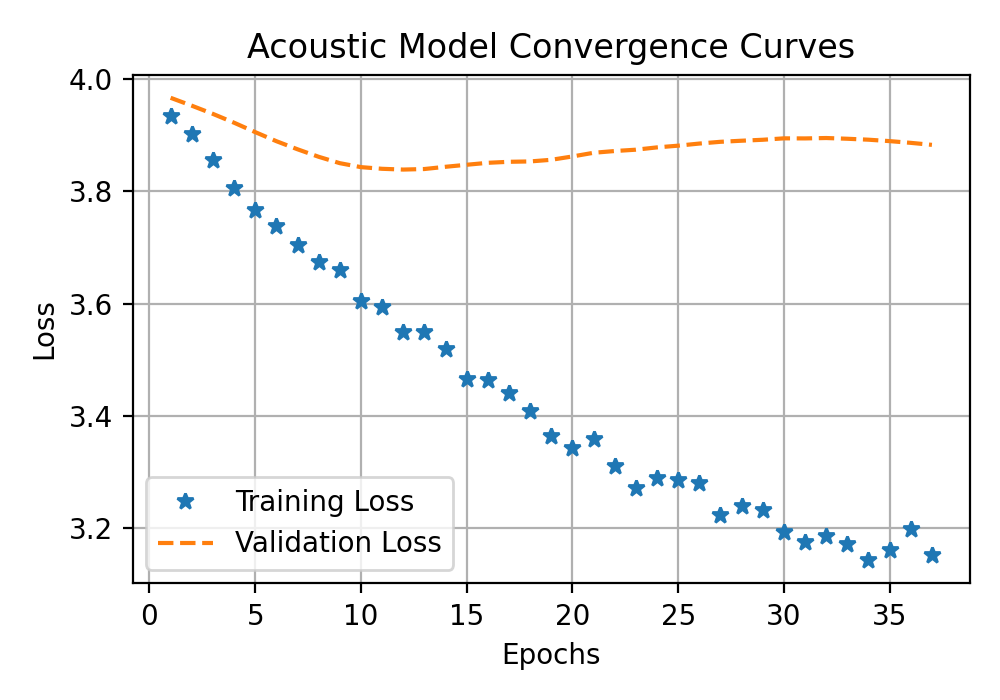
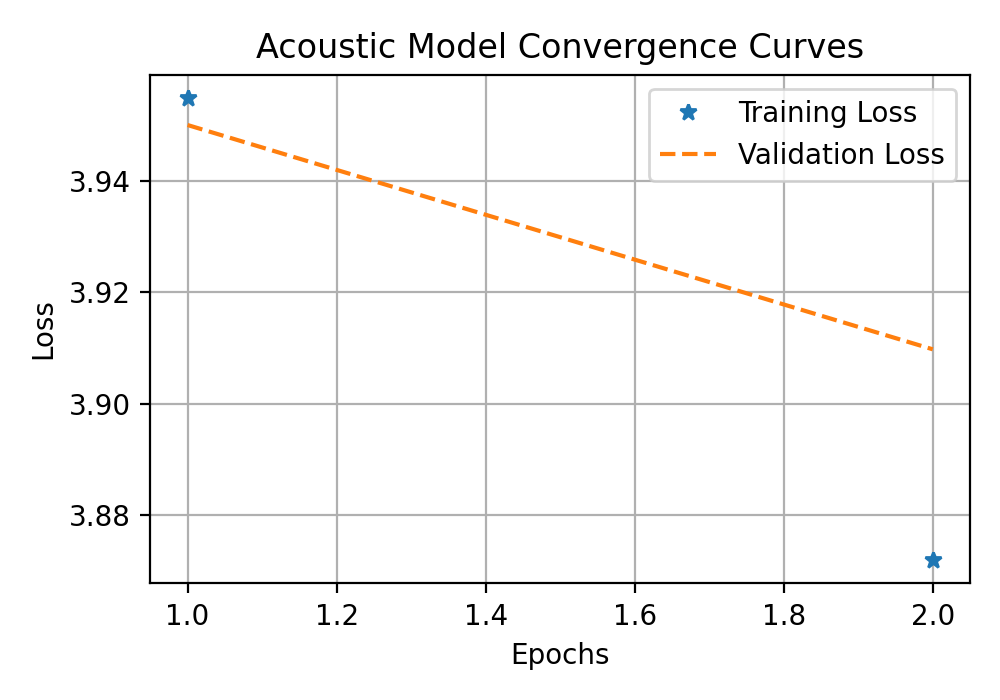
dag

diff --git a/airflow/dags/audio_pipeline_dag.py b/airflow/dags/audio_pipeline_dag.py
@@ -1,65 +1,99 @@
 
+import sys
+from datetime import datetime
+import logging
+from pathlib import Path
+
 from airflow import DAG
 from airflow.operators.python import PythonOperator
 
-from datetime import datetime
+# 1. Definir la raíz absoluta dinámicamente (Forzado a string para evitar fallos de tipos)
+PROJECT_ROOT = str(Path(__file__).resolve().parents[2])
 
+# 2. Modificar el path ANTES de cualquier importación local
+if PROJECT_ROOT not in sys.path:
+    sys.path.insert(0, PROJECT_ROOT)
+
+# 3. Importaciones de componentes de Datos (ETL) y Machine Learning (ML)
+from config.settings import DATA_RAW_DIR, DATA_PROCESSED_DIR
 from etl.ingest import ingest_data
 from etl.mfcc_pyspark import process_mfcc
 from etl.save_parquet import save_data
+from pyspark.sql import SparkSession
 
-import logging
+# 🔹 NUEVAS IMPORTACIONES: Módulos de Entrenamiento y Evaluación
+# (Ajusta el nombre de la función si en tus scripts se llaman distinto, ej: main)
+from ml.training.train import execute_model_training
+from ml.evaluation.evaluate import run_standalone_evaluation
+
 logging.basicConfig(
     level=logging.INFO,
     format="%(asctime)s - %(name)s - %(levelname)s - %(message)s"
 )
-# -------------------------
-# Airflow Functions
-# -------------------------
+logger = logging.getLogger(__name__)
 
+# -------------------------
+# 1. Ingest (Guarda metadatos en XCom)
+# -------------------------
 def ingest_task(**context):
-
-    data = ingest_data("data/raw")
-
-    context["ti"].xcom_push(key="data", value=data)
-
-
-def mfcc_task(**context):
-
-    data = context["ti"].xcom_pull(
-        key="data",
-        task_ids="ingest_audio"
-    )
-
-    df = process_mfcc(data)
-
-    context["ti"].xcom_push(key="df", value=df)
-
-
-def save_task(**context):
-
-    df = context["ti"].xcom_pull(
-        key="df",
-        task_ids="process_mfcc"
-    )
-
-    save_data(df, "data/processed")
-
+    logger.info("Starting Ingestion...")
+    data = ingest_data(DATA_RAW_DIR) 
+    context["ti"].xcom_push(key="raw_data_list", value=data)
 
 # -------------------------
-# DAG
+# 2. Spark MFCC + Save (La tarea pesada unificada)
 # -------------------------
+def spark_processing_task(**context):
+    data = context["ti"].xcom_pull(key="raw_data_list", task_ids="ingest_audio")
+    
+    if not data:
+        raise ValueError("No data received from ingest_audio task.")
 
+    logger.info("Initializing Spark Session inside Airflow Worker")
+    spark = (
+        SparkSession.builder
+        .appName("Airflow-Respiratory-Audio-ETL")
+        .config("spark.sql.execution.arrow.pyspark.enabled", "true")
+        .getOrCreate()
+    )
+
+    try:
+        logger.info("Processing MFCCs with PySpark...")
+        df_spark_processed = process_mfcc(spark=spark, data=data)
+
+        logger.info("Saving processed data to Parquet...")
+        save_data(df=df_spark_processed, output_path=DATA_PROCESSED_DIR)
+        
+    finally:
+        logger.info("Shutting down Spark Session")
+        spark.stop()
+
+# -------------------------
+# 3. ML Training Task
+# -------------------------
+def ml_training_task(**context):
+    logger.info("Starting Deep Learning Model Training (CNN_BLSTM)...")
+    # Tu script train.py leerá internamente desde DATA_PROCESSED_DIR usando settings.py
+    execute_model_training()
+    logger.info("Model trained and artifacts saved to ml/artifacts/ successfully.")
+
+# -------------------------
+# 4. ML Evaluation Task
+# -------------------------
+def ml_evaluation_task(**context):
+    logger.info("Starting Model Evaluation and Report Generation...")
+    # Tu script evaluate.py generará las matrices, curvas ROC y reportes en ml/reports/
+    run_standalone_evaluation()
+    logger.info("Evaluation finished. Reports updated in ml/reports/.")
+
+# -------------------------
+# DAG Definition
+# -------------------------
 with DAG(
-
-    dag_id="audio_pipeline",
-
+    dag_id="audio_pipeline_dag",
     start_date=datetime(2025, 1, 1),
-
     schedule="@daily",
-
     catchup=False
-
 ) as dag:
 
     ingest = PythonOperator(
@@ -67,14 +101,23 @@ with DAG(
         python_callable=ingest_task
     )
 
-    mfcc = PythonOperator(
-        task_id="process_mfcc",
-        python_callable=mfcc_task
+    process_and_save = PythonOperator(
+        task_id="process_spark_and_save",
+        python_callable=spark_processing_task
     )
 
-    save = PythonOperator(
-        task_id="save_parquet",
-        python_callable=save_task
+    # 🔹 NUEVA TAREA: Entrenar el modelo
+    train_ml = PythonOperator(
+        task_id="train_ml_model",
+        python_callable=ml_training_task
     )
 
-    ingest >> mfcc >> save
+    # 🔹 NUEVA TAREA: Evaluar el modelo entrenado
+    evaluate_ml = PythonOperator(
+        task_id="evaluate_ml_model",
+        python_callable=ml_evaluation_task
+    )
+
+    # Flujo End-to-End Lineal y Limpio
+    ingest >> process_and_save >> train_ml >> evaluate_ml
+

diff --git a/prueba.py b/prueba.py
@@ -1,0 +1,85 @@
+'''
+import logging
+from pathlib import Path
+from pyspark.sql import SparkSession
+
+from config.settings import DATA_RAW_DIR, DATA_PROCESSED_DIR
+from etl.ingest import ingest_data
+from etl.mfcc_pyspark import process_mfcc
+from etl.save_parquet import save_data
+
+from ml.training.train import execute_model_training
+
+logging.basicConfig(
+    level=logging.INFO,
+    format="%(asctime)s [%(levelname)s] %(name)s: %(message)s",
+    datefmt="%Y-%m-%d %H:%M:%S"
+)
+logger = logging.getLogger(__name__)
+
+
+def run_pipeline_etl() -> None:
+    """
+    Main orchestrator function that sets up environment resources, triggers 
+    the step-by-step ETL workflow, and handles lifecycle dependencies.
+    return etl: parquet, df
+            {
+                "file_id": seg["file_id"],
+                "segment_idx": seg["segment_idx"],
+                "class_name": class_name,
+                "label": label,
+                "mfcc": flattened_mfcc
+            }
+
+    """
+    logger.info("==================================================")
+    logger.info("STARTING AUDIO DATA ENGINEERING ETL PIPELINE")
+    logger.info("==================================================")
+
+    # --------------------------------------------------
+    # ingest_data
+    # --------------------------------------------------
+    try:
+        raw_metadata_list = ingest_data(base_path=DATA_RAW_DIR)
+    except Exception as error:
+        logger.error("Pipeline stopped during Step 1 (Ingestion Failure): %s", error)
+        return
+    
+    # Spark
+    logger.info("Initializing centralized Apache Spark Session context")
+    spark = (
+        SparkSession.builder
+        .appName("Respiratory-Audio-BioMarker-ETL")
+        .config("spark.sql.execution.arrow.pyspark.enabled", "true")
+        .getOrCreate()
+    )
+
+
+    try:
+        # --------------------------------------------------
+        # mfcc_pyspark -> segment
+        # --------------------------------------------------
+        df_spark_processed = process_mfcc(spark=spark, data=raw_metadata_list)
+
+        # --------------------------------------------------
+        # save_parquet
+        # --------------------------------------------------
+        # "file_id" ! "segment_idx" !"class_name" ! "label" ! "mfcc"
+        save_data(df=df_spark_processed, output_path=DATA_PROCESSED_DIR)
+
+        logger.info("==================================================")
+        logger.info("🎉 ETL PIPELINE EXECUTED SUCCESSFULLY AND TERMINATED CLEANLY")
+        logger.info("==================================================")
+
+    except Exception as error:
+        logger.exception("Pipeline execution failed unexpectedly due to runtime anomalies: %s", error)
+
+    finally:
+        logger.info("Shutting down active Spark Session engine to release allocated memory")
+        spark.stop()
+
+    
+if __name__ == "__main__":
+    run_pipeline_etl()
+
+'''

diff --git a/main.py b/main.py
@@ -1,3 +1,4 @@
+
 import logging
 from pathlib import Path
 from pyspark.sql import SparkSession
@@ -70,9 +71,6 @@ def run_pipeline_etl() -> None:
         logger.info("🎉 ETL PIPELINE EXECUTED SUCCESSFULLY AND TERMINATED CLEANLY")
         logger.info("==================================================")
 
-        #Training
-        #execute_model_training()
-
     except Exception as error:
         logger.exception("Pipeline execution failed unexpectedly due to runtime anomalies: %s", error)
 
@@ -81,8 +79,9 @@ def run_pipeline_etl() -> None:
         spark.stop()
 
     
-
-
 if __name__ == "__main__":
     run_pipeline_etl()
+
+    
+
 

diff --git a/config/settings.py b/config/settings.py
@@ -9,6 +9,10 @@ from pathlib import Path
 # ------------------------------------------------------------------------------
 BASE_DIR = Path(__file__).resolve().parent.parent
 
+# 🔹 NUEVO para airflow: Exportamos la raíz como string absoluto 
+# para entornos externos como Airflow
+PROJECT_ROOT = str(BASE_DIR)
+
 # Core Pipeline Folders
 DATA_RAW_DIR = BASE_DIR / "data" / "raw"
 DATA_PROCESSED_DIR = BASE_DIR / "data" / "processed"
@@ -100,7 +104,8 @@ INITIAL_LEARNING_RATE = 0.00001
 # ------------------------------------------------------------------------------
 # 9. Neural Network Runtime Optimization Cycles
 # ------------------------------------------------------------------------------
-TRAINING_EPOCHS = 250
+#TRAINING_EPOCHS = 250
+TRAINING_EPOCHS = 2
 BATCH_SIZE = 32
 EARLY_STOP_PATIENCE = 25
 REDUCE_LR_PATIENCE = 10

diff --git a/README.es.md b/README.es.md
@@ -10,6 +10,9 @@ Este proyecto implementa una solución completa de Machine Learning y MLOps que 
 ![Pyspark](https://img.shields.io/badge/Pyspark-Preprocesamiento-sky)
 ![TensorFlow](https://img.shields.io/badge/TensorFlow-2.x-orange)
 ![FastAPI](https://img.shields.io/badge/FastAPI-Producción-green)
+![Pytest](https://img.shields.io/badge/Pytest-Implemented-green)
+![Tests](https://img.shields.io/badge/Unit%20Tests-Passing-brightgreen)
+![Tests](https://img.shields.io/badge/tests-passing-brightgreen)
 ![Docker](https://img.shields.io/badge/Docker-Listo-blue)
 ![Airflow](https://img.shields.io/badge/Airflow-Orquestado-red)
 ![Render](https://img.shields.io/badge/Despliegue-Render-purple)
@@ -18,6 +21,11 @@ Este proyecto implementa una solución completa de Machine Learning y MLOps que 
 ![Aruitectura del proyecto](./images/arq2.png)
 
 *El sistema automatiza el ciclo completo (Ciclo de vida de los datos y del modelo) implementando principios de aislamiento de entornos, entrenamiento reproducible en la nube y despliegue continuo.*
+
+---
+## 🎬 Demo
+
+![Demo API](./images/Animation.gif)
 
 ---
 
@@ -192,6 +200,11 @@ Tras procesar el audio en tiempo real extrayendo los MFCCs e inyectándolos en l
 }
 ```
 
-
+- ETL distribuido con PySpark
+- Entrenamiento CNN-BiLSTM
+- Orquestación con Apache Airflow
+- API REST de inferencia con FastAPI
+- Contenerización mediante Docker
+- Despliegue en Render
 
 